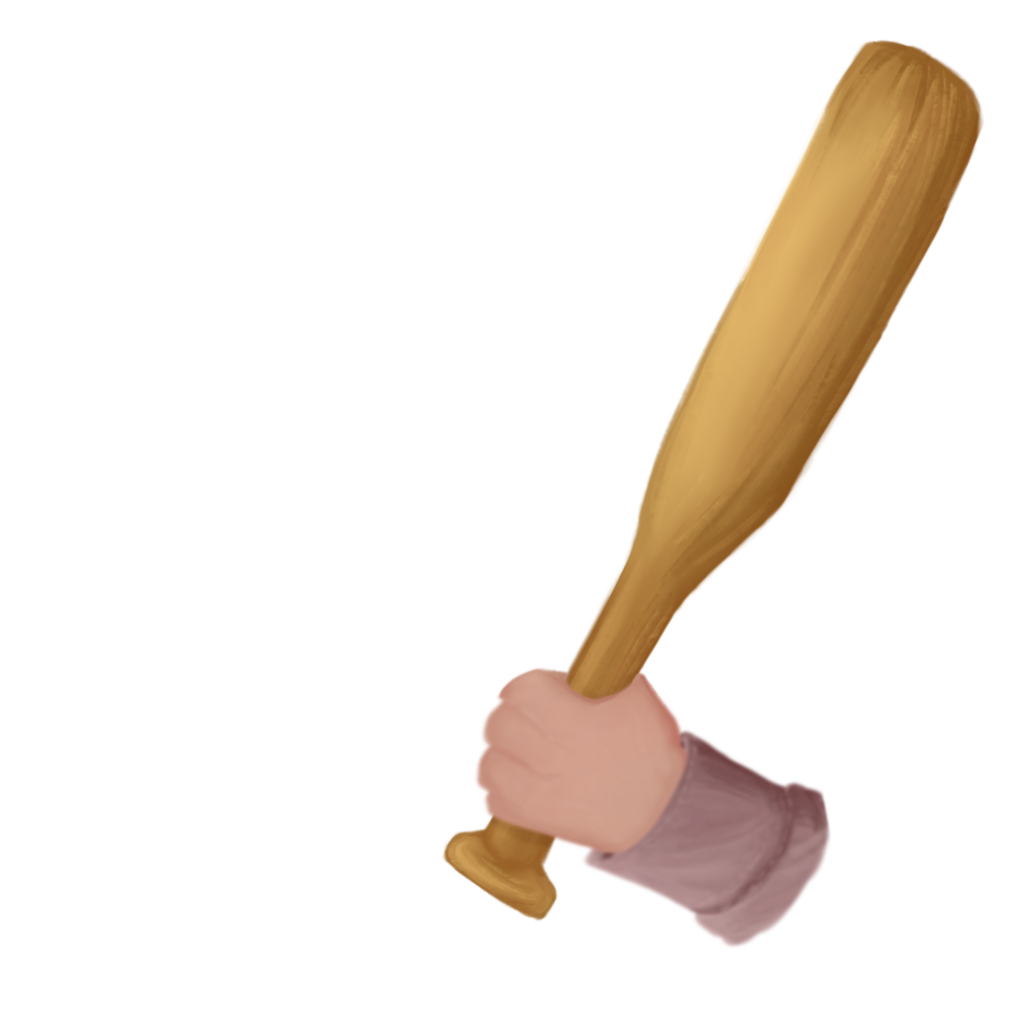
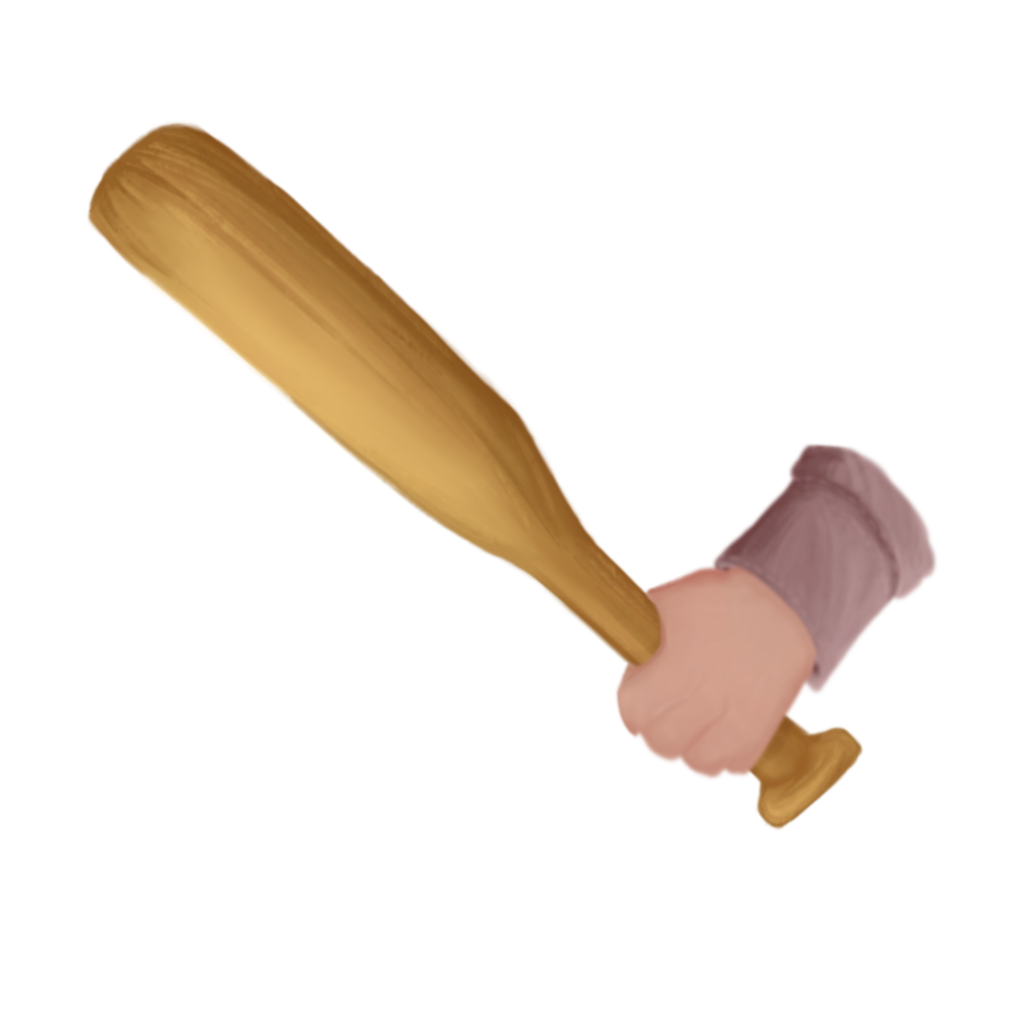
added cursor that doesn't work, border game area doesn't work but updated code

Changed region(s): [[0.0625, 0.0312, 0.9688, 0.9375]]

diff --git a/style.css b/style.css
@@ -1,17 +1,13 @@
 @import url('https://fonts.googleapis.com/css2?family=Pixelify+Sans:wght@400;700&display=swap');
 
 *, *:before, *:after {
-    -webkit-box-sizing: inherit;
-    -moz-box-sizing: inherit;
     box-sizing: inherit;
 }
 /*This applies to following styles to all elements
 simulated-elements, sets box-sizing property to inherit
-ensures consistent box model behaviour to al elements*/
+ensures consistent box model behaviour to all elements*/
 
 html {
-    -moz-box-sizing: border-box;
-    -webkit-box-sizing: border-box;
     box-sizing: border-box;
     font-size: 10px;
 }
@@ -42,20 +38,24 @@ h2 {
     background-color: #2F0E12;
     padding: 0 30px;
     line-height: 1;
-    -webkit-border-radius: 10px;
-    -moz-border-radius: 10px;
     border-radius: 10px;
     color: #EBC4BF
 }
 
 .game {
+    cursor: url('./images/Bat.png'), auto;
+    border: 2px dashed black;
     width: 600px;
     height: 400px;
-    display: -webkit-box;
-    display: -webkit-flex;
-    display: flex;
-    flex-wrap: wrap;
+    display: flex;  /*modern flexbox*/
+    flex-wrap: wrap;  /* allows wrapping of child elements*/
+    justify-content: center;  /*horizontal alignment*/
+    align-items: center;  /*vertical alignment*/
     margin: 0 auto;
+}
+
+.game.clicked {
+    cursor: url('./images/Bat_hit.png'), auto;
 }
 
 .hole {
@@ -100,8 +100,12 @@ h2 {
     padding: 10px 20px;
     cursor: pointer;
     margin: 10px;
+
+    /* Animation to make the button change*/
+    transition: transform 0.2s ease, box-shadow 0.2s ease;
 }
 
 #start:hover {
-    opacity: 0.8;
+    transform: scale(1.08);
+    box-shadow:  0 0 15px #AE7467;
 }

diff --git a/script.js b/script.js
@@ -2,10 +2,18 @@ const holes = document.querySelectorAll('.hole');
 const scoreBoard = document.querySelector('.score');
 const moles = document.querySelectorAll('.mole');
 const button = document.querySelector('#start');
+const gameArea = document.querySelector('.game');
 let lastHole;
 let timeUp = false;
 let score = 0;
 
+gameArea.addEventListener('mousedown', () => {
+    gameArea.classList.add('clicked');
+});
+
+gameArea.addEventListener('mouseup', () => {
+    gameArea.classList.remove('clicked');
+});
 
 function randomTime(min, max) {
     return Math.round(Math.random() * (max - min) + min);